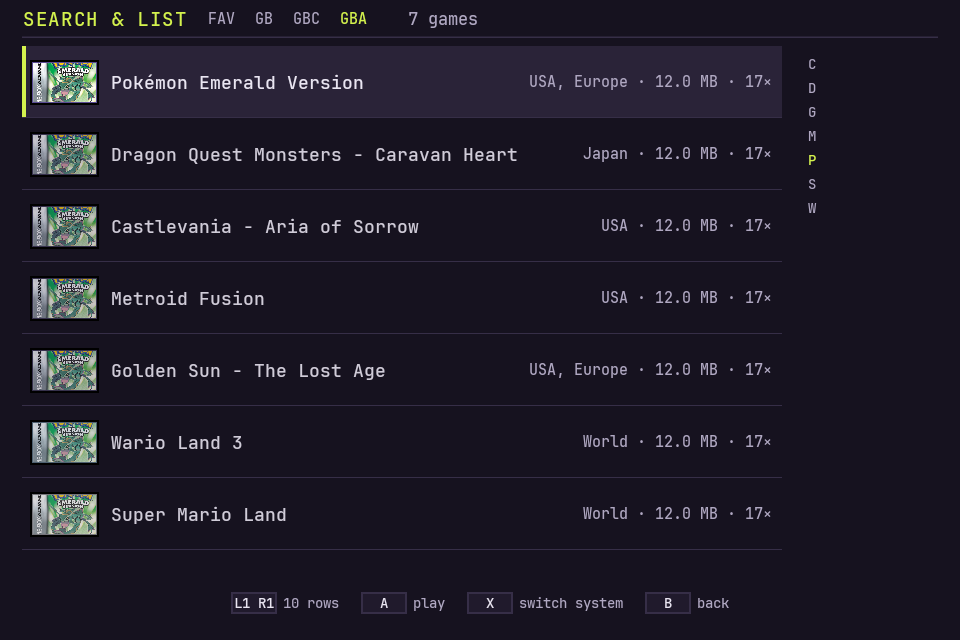
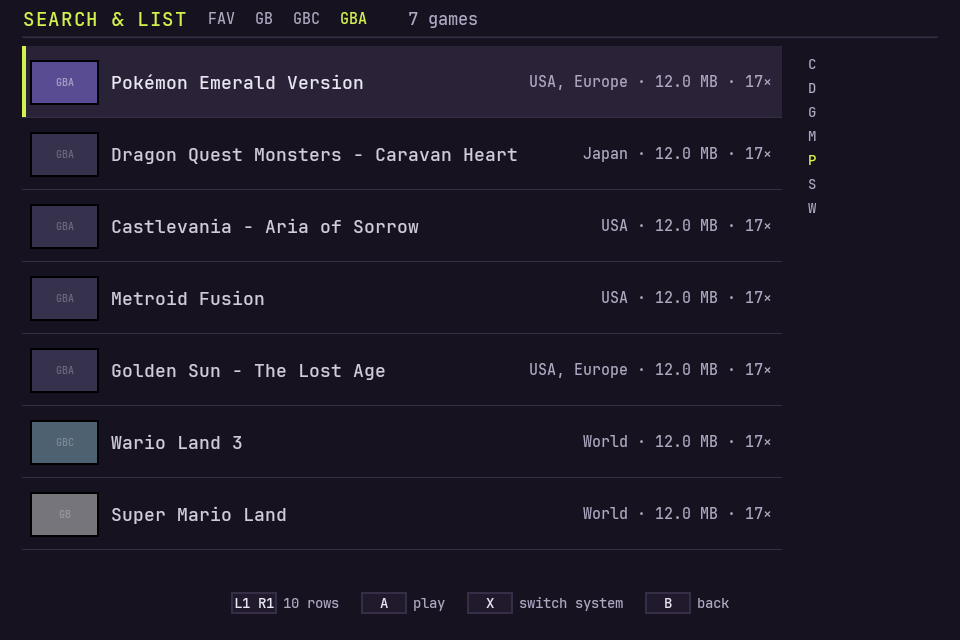
style D: kartrid 3D pakai asset render (gen-cart-gba.py) + overlay boxart di label rect; shelf portrait

diff --git a/android/app/src/main/java/id/iqbaldev/kartrid/ui/Cartridge.kt b/android/app/src/main/java/id/iqbaldev/kartrid/ui/Cartridge.kt
@@ -1,5 +1,6 @@
 package id.iqbaldev.kartrid.ui
 
+import android.graphics.BitmapFactory
 import androidx.compose.foundation.Image
 import androidx.compose.foundation.background
 import androidx.compose.foundation.border
@@ -17,6 +18,7 @@ import androidx.compose.foundation.layout.width
 import androidx.compose.foundation.shape.RoundedCornerShape
 import androidx.compose.material3.Text
 import androidx.compose.runtime.Composable
+import androidx.compose.runtime.remember
 import androidx.compose.ui.Alignment
 import androidx.compose.ui.Modifier
 import androidx.compose.ui.draw.clip
@@ -30,10 +32,13 @@ import androidx.compose.ui.graphics.RectangleShape
 import androidx.compose.ui.graphics.Shape
 import androidx.compose.ui.graphics.drawscope.clipRect
 import androidx.compose.ui.layout.ContentScale
+import androidx.compose.ui.platform.LocalContext
 import androidx.compose.ui.text.style.TextAlign
 import androidx.compose.ui.unit.dp
 import androidx.compose.ui.unit.sp
+import id.iqbaldev.kartrid.R
 import id.iqbaldev.kartrid.core.Sys
+import androidx.compose.ui.graphics.asImageBitmap
 
 /**
  * Kartrid GBA/GB: shell + notch + label boxart + band nama sistem.
@@ -45,8 +50,10 @@ import id.iqbaldev.kartrid.core.Sys
  * - C "RetroShell": shell abu gradasi rounded-top, label beige, boxart KECIL
  *   (~46% lebar, nggak penuh) + pin kontak gold — simplifikasi dari referensi
  *   kartrid retro (index.html/user, 17 Okt 2026). Semua style pakai Fit.
+ * - D "3D": shell photoreal hasil render (drawable-nodpi/cart_gba.png) + boxart
+ *   di-overlay pas label rect — 17 Okt 2026, user: "cari file 3d cartridge gba".
  */
-enum class CartStyle { A, B, C }
+enum class CartStyle { A, B, C, D }
 
 @Composable
 fun Cartridge(
@@ -59,8 +66,12 @@ fun Cartridge(
     clipFrac: Float = 0f,
     showNotch: Boolean = focused,
     showBand: Boolean = focused,
-    style: CartStyle = CartStyle.C,
+    style: CartStyle = CartStyle.D,
 ) {
+    if (style == CartStyle.D) {
+        Cartridge3D(sys, art, w, h, focused, modifier, clipFrac)
+        return
+    }
     val outlineRoom = if (focused) 12f else 0f
     val shape: Shape = when (style) {
         CartStyle.A -> if (sys.rounded) RoundedCornerShape(8.dp) else RectangleShape
@@ -68,6 +79,7 @@ fun Cartridge(
             RoundedCornerShape(topStart = 10.dp, topEnd = 10.dp, bottomEnd = 3.dp, bottomStart = 3.dp)
         CartStyle.C ->
             RoundedCornerShape(topStart = 16.dp, topEnd = 16.dp, bottomEnd = 4.dp, bottomStart = 4.dp)
+        CartStyle.D -> RoundedCornerShape(8.dp) // unreachable (early return), biar exhaustive
     }
     val shell: Color = shellColor(sys.shell, focused)
     val shadow = if (focused) 8f else 5f
@@ -284,6 +296,77 @@ private fun PlaceholderView(sys: Sys, focused: Boolean) {
                 fontSize = 7.5.sp,
                 letterSpacing = 2.2.sp,
             )
+        }
+    }
+}
+
+/** Style D: shell render 3D (cart_gba.png) + boxart di label rect */
+@Composable
+private fun Cartridge3D(
+    sys: Sys,
+    art: ImageBitmap?,
+    w: Float,
+    h: Float,
+    focused: Boolean,
+    modifier: Modifier = Modifier,
+    clipFrac: Float = 0f,
+) {
+    val ctx = LocalContext.current
+    val shell = remember {
+        runCatching {
+            BitmapFactory.decodeResource(ctx.resources, R.drawable.cart_gba)?.asImageBitmap()
+        }.getOrNull()
+    }
+    val shape = RoundedCornerShape(topStart = 18.dp, topEnd = 18.dp, bottomEnd = 6.dp, bottomStart = 6.dp)
+
+    Box(
+        modifier
+            .size(w.dp, h.dp)
+            .drawWithContent {
+                val bottom = size.height * (1f - clipFrac.coerceIn(0f, 1f))
+                clipRect(right = size.width, bottom = bottom) { this@drawWithContent.drawContent() }
+            }
+            .clip(shape),
+    ) {
+        if (shell != null) {
+            Image(
+                bitmap = shell,
+                contentDescription = null,
+                modifier = Modifier.fillMaxSize(),
+                contentScale = ContentScale.Fit,
+                colorFilter = if (focused) null else ColorFilter.colorMatrix(dimMatrix()),
+            )
+        }
+        // label rect (fraksi dari asset cart_gba.png) — overlay boxart biar "nempel"
+        val lx = w * 0.115f
+        val ly = h * 0.205f
+        val lw = w * 0.770f
+        val lh = h * 0.650f
+        Box(
+            Modifier
+                .offset(x = lx.dp, y = ly.dp)
+                .size(lw.dp, lh.dp)
+                .clip(RoundedCornerShape(10.dp))
+                .background(Color(0xFF101014)),
+        ) {
+            if (art != null) {
+                Image(
+                    bitmap = art,
+                    contentDescription = null,
+                    modifier = Modifier.fillMaxSize(),
+                    contentScale = ContentScale.Fit,
+                )
+            } else {
+                Box(Modifier.fillMaxSize(), contentAlignment = Alignment.Center) {
+                    Text(
+                        text = sys.label,
+                        color = T.mutedFg.copy(alpha = 0.8f),
+                        fontFamily = DISPLAY,
+                        fontSize = 24.sp,
+                        letterSpacing = 2.sp,
+                    )
+                }
+            }
         }
     }
 }

diff --git a/android/app/src/main/java/id/iqbaldev/kartrid/ui/ShelfScreen.kt b/android/app/src/main/java/id/iqbaldev/kartrid/ui/ShelfScreen.kt
@@ -67,14 +67,14 @@ import kotlin.math.sign
 private const val TOP_H = 84f
 private const val FAV_SHELL = 0xFFFFC94D
 private const val CENTER_X = 480f
-// kartrid LANDSCAPE (kembali; user: "vertical ini tambah jelek")
+// kartrid PORTRAIT 3D (asset cart_gba.png 0.769:1) — "memanjang vertical" versi beneran
 private const val CART_BOTTOM = 380f
-private const val FOCUS_W = 288f
-private const val FOCUS_H = 206f
-private const val ITEM_W = 196f
-private const val GAP = 34f
-private const val SLOT_W = 204f
-private const val SLOT_H = 18f
+private const val FOCUS_W = 176f
+private const val FOCUS_H = 229f
+private const val ITEM_W = 120f
+private const val GAP = 40f
+private const val SLOT_W = 136f
+private const val SLOT_H = 16f
 private const val SLOT_TOP = 380f
 
 private fun widthAt(d: Float): Float {
@@ -142,16 +142,16 @@ fun ShelfScreen(
 
     suspend fun play(g: Game) = coroutineScope {
         tip = "MENUJU SLOT…"
-        launch { yOff.animateTo(58f, tween(220)) }
+        launch { yOff.animateTo(40f, tween(220)) }
         launch { scale.animateTo(0.96f, tween(220)) }
         delay(230)
 
         sfx.insert()
         sfx.haptic(18)
         tip = "KLEK!"
-        clipFrac = 0.46f
+        clipFrac = 0.42f
         flash = true
-        launch { yOff.animateTo(44f, tween(90)) }
+        launch { yOff.animateTo(26f, tween(90)) }
         launch { scale.animateTo(0.98f, tween(90)) }
         delay(200)
 
@@ -263,20 +263,20 @@ fun ShelfScreen(
         if (flash) {
             Box(
                 Modifier
-                    .offset(x = (CENTER_X - 130f).dp, y = (SLOT_TOP - 2f).dp)
-                    .size(260.dp, 9.dp)
+                    .offset(x = (CENTER_X - 78f).dp, y = (SLOT_TOP - 2f).dp)
+                    .size(156.dp, 7.dp)
                     .background(T.lime.copy(alpha = 0.85f)),
             )
             Box(
                 Modifier
-                    .offset(x = (CENTER_X - 150f).dp, y = (SLOT_TOP - 16f).dp)
-                    .size(300.dp, 74.dp)
+                    .offset(x = (CENTER_X - 96f).dp, y = (SLOT_TOP - 12f).dp)
+                    .size(192.dp, 46.dp)
                     .border(2.dp, T.lime.copy(alpha = 0.5f)),
             )
             Box(
                 Modifier
-                    .offset(x = (CENTER_X - 150f).dp, y = (SLOT_TOP - 16f).dp)
-                    .size(300.dp, 74.dp)
+                    .offset(x = (CENTER_X - 96f).dp, y = (SLOT_TOP - 12f).dp)
+                    .size(192.dp, 46.dp)
                     .border(6.dp, T.lime.copy(alpha = 0.10f)),
             )
         }

diff --git a/android/app/src/test/java/id/iqbaldev/kartrid/PreviewTest.kt b/android/app/src/test/java/id/iqbaldev/kartrid/PreviewTest.kt
@@ -146,6 +146,24 @@ class PreviewTest {
     }
 
     @Test
+    fun cartStyleDPreview() {
+        captureRoboImage("/home/iqbaladinur/hobbies/kartrid/previews/11-cart-style-D.png") {
+            MockCanvas {
+                Box(Modifier.fillMaxSize(), contentAlignment = Alignment.Center) {
+                    Cartridge(
+                        sys = Sys.GBA,
+                        art = art("gba_Pokemon_-_Emerald_Version__USA__Europe_.png"),
+                        w = 176f,
+                        h = 229f,
+                        focused = true,
+                        style = CartStyle.D,
+                    )
+                }
+            }
+        }
+    }
+
+    @Test
     fun settingsPreview() {
         captureRoboImage("/home/iqbaladinur/hobbies/kartrid/previews/02-settings.png") {
             MockCanvas {

diff --git a/scripts/gen-cart-gba.py b/scripts/gen-cart-gba.py
@@ -1,0 +1,103 @@
+#!/usr/bin/env python3
+"""Gen shell kartrid GBA '3D' (front view) -> PNG transparent, buat Kartrid launcher.
+Bukan foto asli, tapi render plastik: gradasi vertikal + bevel + specular + grip + label inset.
+Output: android/app/src/main/res/drawable-nodpi/cart_gba.png
+Label rect (fraksi) dicetak biar app tau di mana overlay boxart.
+"""
+import numpy as np
+from PIL import Image, ImageDraw, ImageFilter
+
+W, H = 500, 620
+RAD_TOP, RAD_BOT = 46, 16
+OUT = "/home/iqbaladinur/hobbies/kartrid/android/app/src/main/res/drawable-nodpi/cart_gba.png"
+
+# --- mask shell: rounded atas RAD_TOP, bawah RAD_BOT ---
+mask = Image.new("L", (W, H), 0)
+ImageDraw.Draw(mask).rounded_rectangle([0, 0, W - 1, H - 1], radius=RAD_TOP, fill=255)
+ycut = int(H * 0.82)
+mb = Image.new("L", (W, H), 0)
+ImageDraw.Draw(mb).rounded_rectangle([0, ycut, W - 1, H - 1], radius=RAD_BOT, fill=255)
+mask.paste(mb.crop((0, ycut, W, H)), (0, ycut))
+
+shell = Image.new("RGBA", (W, H), (0, 0, 0, 0))
+
+# --- gradasi vertikal plastik ---
+grad = np.zeros((H, W, 4), dtype=np.uint8)
+top = np.array([240, 238, 229], float)
+mid = np.array([211, 207, 197], float)
+bot = np.array([176, 172, 162], float)
+for y in range(H):
+    t = y / H
+    if t < 0.28:
+        k = t / 0.28
+        c = top + (mid - top) * k
+    elif t < 0.78:
+        k = (t - 0.28) / 0.50
+        c = mid + (bot - mid) * k
+    else:
+        c = bot
+    grad[y, :, :3] = c.astype(np.uint8)
+grad[:, :, 3] = 255
+# lateral: kiri sedikit lebih gelap (cahaya dari kiri-atas)
+lx = np.linspace(0.965, 0.955, W)
+lx[: int(W * 0.15)] = np.linspace(0.90, 0.965, int(W * 0.15))
+grad[:, :, :3] = (grad[:, :, :3].astype(float) * lx[None, :, None]).astype(np.uint8)
+
+shell = Image.fromarray(grad, "RGBA")
+shell.putalpha(mask)
+
+# --- label inset (gelap, biar boxart pop) ---
+lx0, ly0, lx1, ly1 = 0.115, 0.205, 0.885, 0.855
+lx0p, ly0p = int(W * lx0), int(H * ly0)
+lx1p, ly1p = int(W * lx1), int(H * ly1)
+lab = Image.new("RGBA", (W, H), (0, 0, 0, 0))
+lg = np.zeros((ly1p - ly0p, lx1p - lx0p, 4), dtype=np.uint8)
+for y in range(lg.shape[0]):
+    t = y / lg.shape[0]
+    c = int(26 + 14 * t)
+    lg[y, :, :3] = c
+lg[:, :, 3] = 255
+lab.paste(Image.fromarray(lg, "RGBA"), (lx0p, ly0p))
+lm = Image.new("L", (W, H), 0)
+ImageDraw.Draw(lm).rounded_rectangle([lx0p, ly0p, lx1p, ly1p], radius=14, fill=255)
+lab.putalpha(lm)
+# border label 2px gelap pekat
+bd = Image.new("RGBA", (W, H), (0, 0, 0, 0))
+ImageDraw.Draw(bd).rounded_rectangle([lx0p - 2, ly0p - 2, lx1p + 2, ly1p + 2], radius=16, outline=(8, 8, 10, 255), width=3)
+lab = Image.alpha_composite(lab, bd)
+shell = Image.alpha_composite(shell, lab)
+
+# --- specular top + inner bevel ---
+spec = Image.new("RGBA", (W, H), (0, 0, 0, 0))
+ImageDraw.Draw(spec).rounded_rectangle([0, 0, W - 1, int(H * 0.14)], radius=RAD_TOP, fill=(255, 255, 255, 30))
+shell = Image.alpha_composite(shell, spec)
+line = Image.new("RGBA", (W, H), (0, 0, 0, 0))
+d = ImageDraw.Draw(line)
+d.rounded_rectangle([1, 1, W - 2, H - 2], radius=RAD_TOP, outline=(255, 255, 255, 70), width=2)
+d.rounded_rectangle([2, int(H * 0.86), W - 3, H - 3], radius=RAD_BOT, outline=(0, 0, 0, 70), width=3)
+shell = Image.alpha_composite(shell, line)
+
+# --- grip atas (indent kanan-kiri ala GBA) ---
+grip = Image.new("RGBA", (W, H), (0, 0, 0, 0))
+gd = ImageDraw.Draw(grip)
+gd.rounded_rectangle([int(W * 0.13), int(H * 0.045), int(W * 0.22), int(H * 0.062)], radius=4, fill=(0, 0, 0, 110))
+gd.rounded_rectangle([int(W * 0.79), int(H * 0.045), int(W * 0.86), int(H * 0.060)], radius=4, fill=(0, 0, 0, 110))
+shell = Image.alpha_composite(shell, grip)
+
+# --- lip bawah (garis halus) ---
+lip = Image.new("RGBA", (W, H), (0, 0, 0, 0))
+ImageDraw.Draw(lip).line([(int(W * 0.10), int(H * 0.955)), (W - int(W * 0.10), int(H * 0.955))], fill=(0, 0, 0, 60), width=2)
+shell = Image.alpha_composite(shell, lip)
+
+# --- shadow lembut di bawah ---
+sh = Image.new("RGBA", (W + 60, H + 60), (0, 0, 0, 0))
+ImageDraw.Draw(sh).ellipse([W * 0.06, H * 0.93, W * 0.94, H * 1.02], fill=(5, 5, 8, 130))
+sh = sh.filter(ImageFilter.GaussianBlur(10))
+final = Image.new("RGBA", (W + 60, H + 60), (0, 0, 0, 0))
+final.alpha_composite(sh, (30, 8))
+final.alpha_composite(shell, (30, 8))
+final = final.crop((0, 0, W, H + 30))
+
+final.save(OUT)
+print("saved", OUT, final.size)
+print("LABEL_RECT_XYWH=(%.3f, %.3f, %.3f, %.3f)" % (lx0, ly0, lx1 - lx0, ly1 - ly0))
